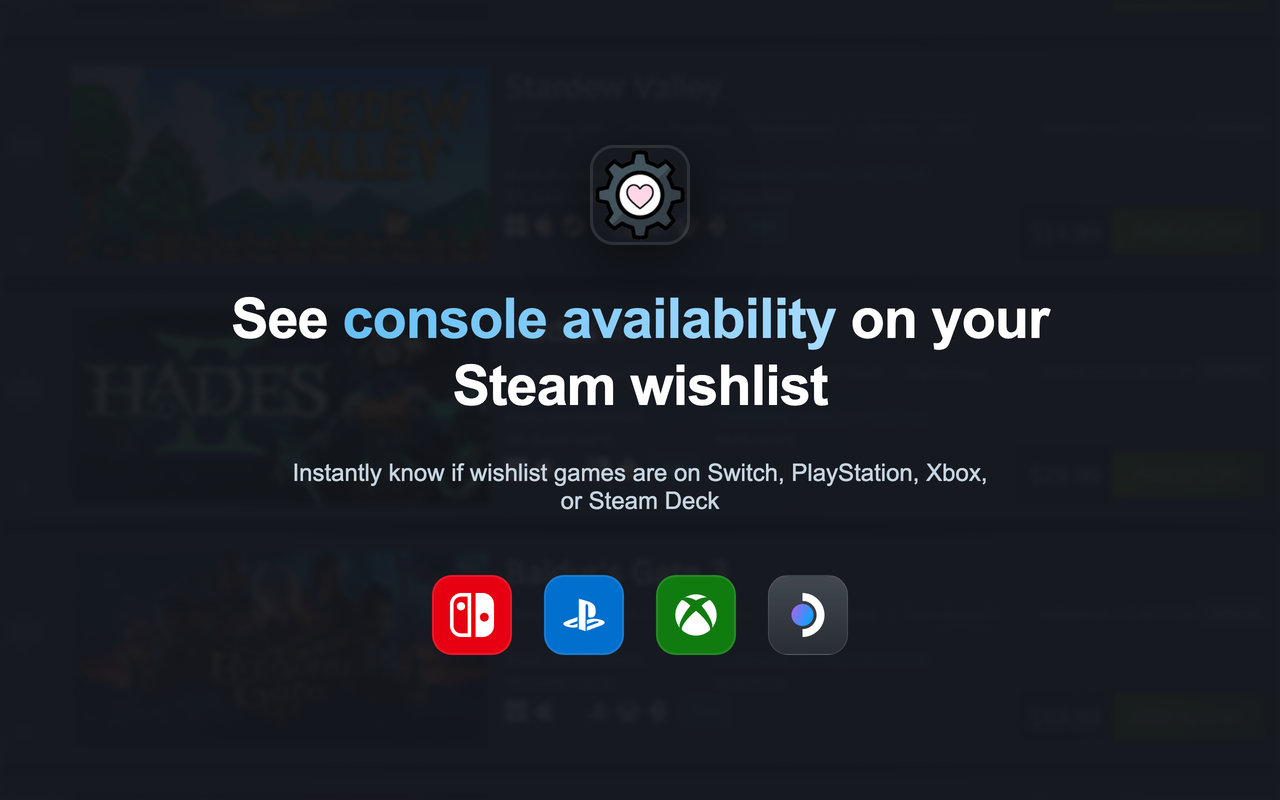
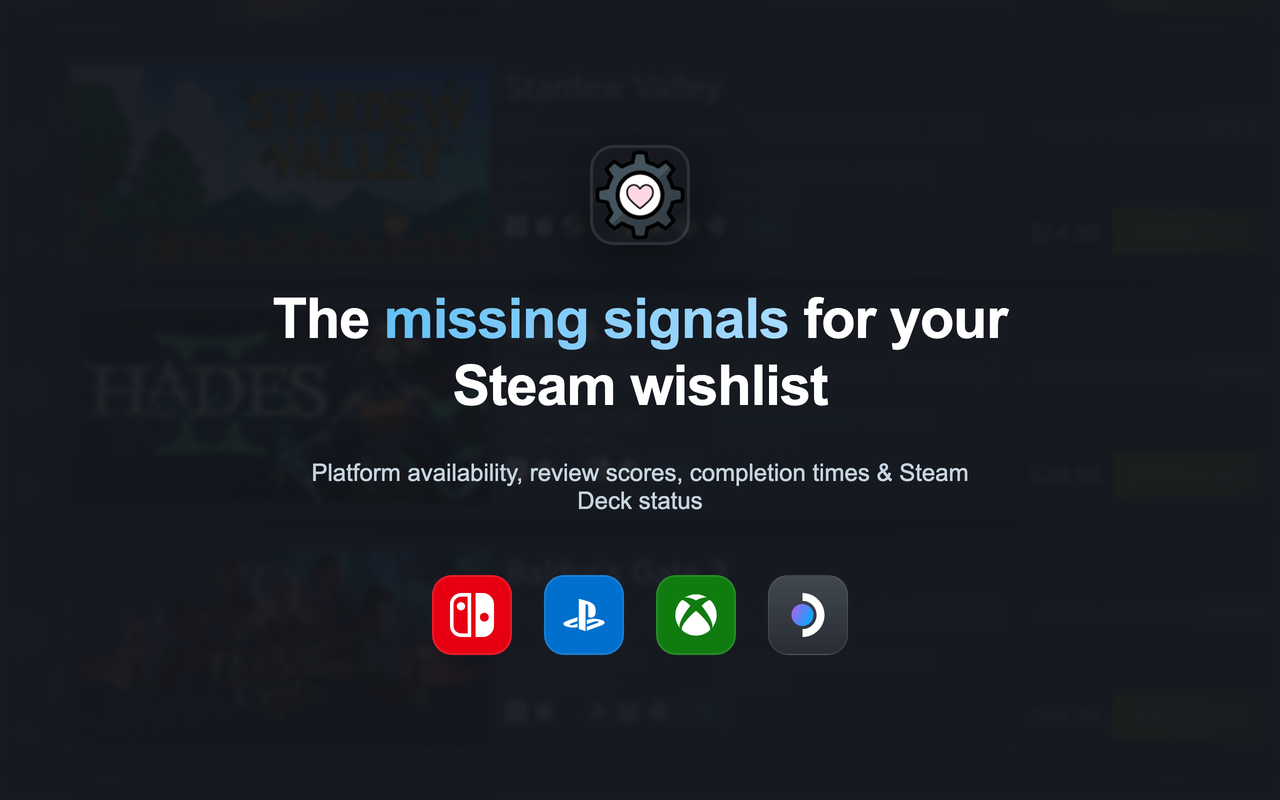
chore: Update marketing assets and roadmap for rebrand
- Regenerate all promo tile images with new multi-signal tagline
- Update taglines from "console availability" to "missing signals"
- Mark FEAT-10, FEAT-11, BUG-5 as completed in ROADMAP.md
- Remove completed items from active sections and priority matrix

Changed region(s): [[0.1875, 0.3438, 0.8125, 0.4375], [0.2188, 0.5625, 0.75, 0.6562]]

diff --git a/assets/marketing/promo-tile-1400x560-v3.html b/assets/marketing/promo-tile-1400x560-v3.html
@@ -166,7 +166,7 @@
         <img src="../icons/icon128.png" alt="Extension icon">
       </div>
       <h1 class="tagline">
-        <span>Console availability</span> on your Steam wishlist
+        The <span>missing signals</span> for your Steam wishlist
       </h1>
     </div>
 
@@ -195,7 +195,7 @@
     </div>
 
     <p class="subtitle">
-      Switch &bull; PlayStation &bull; Xbox &bull; Steam Deck — all at a glance
+      Platforms &bull; Reviews &bull; Completion times &bull; Steam Deck — all at a glance
     </p>
   </div>
 </body>

diff --git a/assets/marketing/promo-tile-1280x800.html b/assets/marketing/promo-tile-1280x800.html
@@ -191,11 +191,11 @@
     </div>
 
     <h1 class="tagline">
-      See <span class="highlight">console availability</span> on your Steam wishlist
+      The <span class="highlight">missing signals</span> for your Steam wishlist
     </h1>
 
     <p class="subtitle">
-      Switch, PlayStation, Xbox, Steam Deck compatibility and HowLongToBeat times at a glance.
+      Platform availability, review scores, completion times & Steam Deck status — all at a glance.
     </p>
 
     <div class="platform-row">

diff --git a/assets/marketing/promo-tile-1280x800-v3.html b/assets/marketing/promo-tile-1280x800-v3.html
@@ -163,11 +163,11 @@
     </div>
 
     <h1 class="tagline">
-      See <span>console availability</span> on your Steam wishlist
+      The <span>missing signals</span> for your Steam wishlist
     </h1>
 
     <p class="subtitle">
-      Instantly know if wishlist games are on Switch, PlayStation, Xbox, or Steam Deck
+      Platform availability, review scores, completion times & Steam Deck status
     </p>
 
     <div class="platform-row">

diff --git a/assets/marketing/promo-tile-440x280.html b/assets/marketing/promo-tile-440x280.html
@@ -171,8 +171,8 @@
       </div>
     </div>
 
-    <h1>See <span>console availability</span><br>on Steam wishlist</h1>
-    <p class="subtitle">Switch, PlayStation, Xbox, Steam Deck + completion times</p>
+    <h1>The <span>missing signals</span><br>for your Steam wishlist</h1>
+    <p class="subtitle">Platforms, reviews, completion times & Steam Deck status</p>
   </div>
 
 </body>

diff --git a/assets/marketing/promo-tile-1280x800-v2.html b/assets/marketing/promo-tile-1280x800-v2.html
@@ -172,7 +172,7 @@
       </div>
       <div class="text-content">
         <div class="extension-name">Steam Wishlist Plus</div>
-        <div class="tagline">See <span>console availability</span> at a glance</div>
+        <div class="tagline">The <span>missing signals</span> for your Steam wishlist</div>
       </div>
     </div>
 

diff --git a/assets/marketing/promo-tile-1400x560-v2.html b/assets/marketing/promo-tile-1400x560-v2.html
@@ -172,7 +172,7 @@
       </div>
       <div class="text-content">
         <div class="extension-name">Steam Wishlist Plus</div>
-        <div class="tagline">See <span>console availability</span> at a glance</div>
+        <div class="tagline">The <span>missing signals</span> for your Steam wishlist</div>
       </div>
     </div>
 

diff --git a/ROADMAP.md b/ROADMAP.md
@@ -14,17 +14,7 @@
 
 ## Bugs (Necessity: 8)
 
-### BUG-5: OpenCritic API requires authentication
-**Priority:** P1 (Blocking for FEAT-10)
-**Files:** `src/reviewScoresClient.ts`
-**Issue:** OpenCritic API now returns 400 "API key is required" for all unauthenticated requests. This breaks the review scores feature completely.
-**Discovered:** 2026-01-27 during end-to-end testing
-**Evidence:** `curl "https://api.opencritic.com/api/game/search?criteria=Elden%20Ring"` returns `{"message":"API key is required. Email developers@opencritic.com for more info"}`
-**Options:**
-1. Email developers@opencritic.com to request API key
-2. Find alternative data source (Metacritic direct, IGDB, etc.)
-3. Scrape OpenCritic website (not recommended - fragile)
-4. Disable review scores feature until resolved
+*No pending bugs.*
 
 ---
 
@@ -53,34 +43,6 @@
 3. Show icon in content.js based on ProtonDB tier
 4. Consider caching with appropriate TTL
 **Risk:** Medium - ProtonDB API is unofficial but stable. Tier colors may conflict with existing dimmed/available styling.
-
-### FEAT-10: Review scores (IGN, GameSpot, Metacritic)
-**Priority:** P2 (Medium Value)
-**Files:** New `src/reviewScoresClient.ts`, `src/content.ts`, `src/types.ts`, `src/background.ts`
-**Issue:** Users want review scores to help prioritize their wishlist purchases.
-**Data sources:**
-- Metacritic: `https://www.metacritic.com/search/game/<name>/results` (web scraping required)
-- OpenCritic: `https://api.opencritic.com/api/game/search?criteria=<name>` (public API)
-- IGN/GameSpot: No public APIs (may require web scraping or alternative sources)
-**Fix:**
-1. Create `src/reviewScoresClient.ts` with `queryReviewScores()` function
-2. Add review score types to types.ts (metacritic, opencritic scores)
-3. Add message handler in background.ts for GET_REVIEW_SCORES
-4. Display score badge/tooltip in icon row (similar to HLTB badge)
-5. Add user preference toggle in options
-**Risk:** High - Metacritic has strict anti-scraping. OpenCritic is more accessible. IGN/GameSpot lack public APIs. Name matching is fuzzy. Consider OpenCritic as primary source (has aggregated scores).
-
-### FEAT-11: Export cached entries
-**Priority:** P2 (Medium Value)
-**Files:** `src/options.ts`, `src/options.html`, `src/background.ts`
-**Issue:** Users want to export cached game data for backup, analysis, or sharing.
-**Fix:**
-1. Add "Export Cache" button to options page
-2. Add message handler in background.ts for GET_CACHE_EXPORT
-3. Format cache entries as JSON with metadata (timestamp, version)
-4. Include all fields: appid, gameName, platforms, HLTB data, review scores
-5. Trigger browser download with timestamp filename (e.g., `swp-cache-2024-01-26.json`)
-**Risk:** Low - simple file generation and download. Consider adding import functionality for completeness.
 
 ### FEAT-8: Firefox/Edge browser support
 **Priority:** P3 (Lower Priority)
@@ -170,6 +132,10 @@ Features below were evaluated and declined because established extensions (Augme
 - [x] MISSING-1: Extension icons for Chrome Web Store (16x16, 48x48, 128x128 PNG icons created)
 - [x] MISSING-2: Popup UI (quick-access popup with cache stats and platform toggles)
 - [x] UX-2: Fix icon blinking on URL change (replaced cleanupAllIcons with lightCleanup to preserve icons in DOM during React SPA navigation)
+- [x] REBRAND-1: Rename from "Steam Cross-Platform Wishlist" to "Steam Wishlist Plus" (name, log prefix SCPW→SWP, globalThis namespace, messaging, docs, marketing, all 50 files updated)
+- [x] FEAT-10: Review scores (OpenCritic integration via Wikidata ID lookup)
+- [x] FEAT-11: Export cached entries (JSON export from options page)
+- [x] BUG-5: OpenCritic API authentication (resolved as part of FEAT-10 via Wikidata ID direct lookup)
 
 ---
 
@@ -177,7 +143,5 @@ Features below were evaluated and declined because established extensions (Augme
 
 | ID | Item | Necessity | Confidence | Score | Effort |
 |----|------|-----------|------------|-------|--------|
-| FEAT-10 | Review Scores | 6 | 5 | 30 | Medium |
-| FEAT-11 | Export Cache | 5 | 9 | 45 | Low |
 | FEAT-8 | Firefox/Edge | 5 | 6 | 30 | Medium |
 | FEAT-9 | ChromeOS/ProtonDB | 4 | 5 | 20 | Medium |
